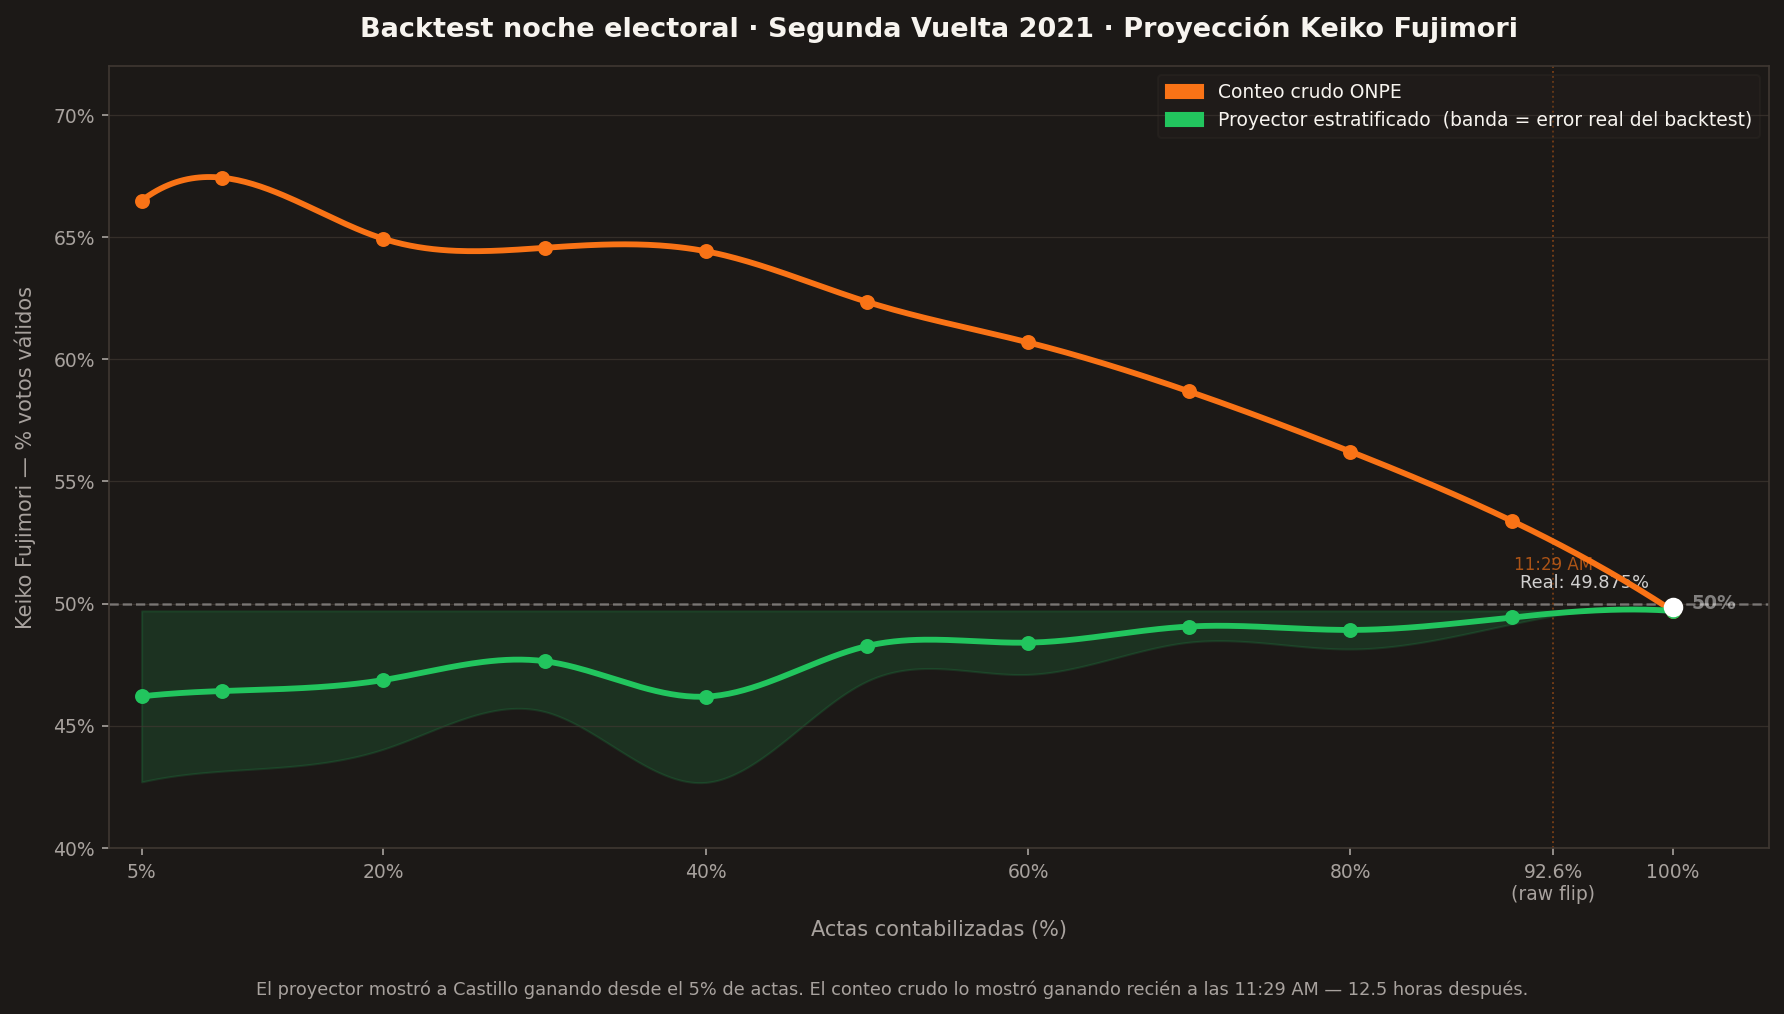
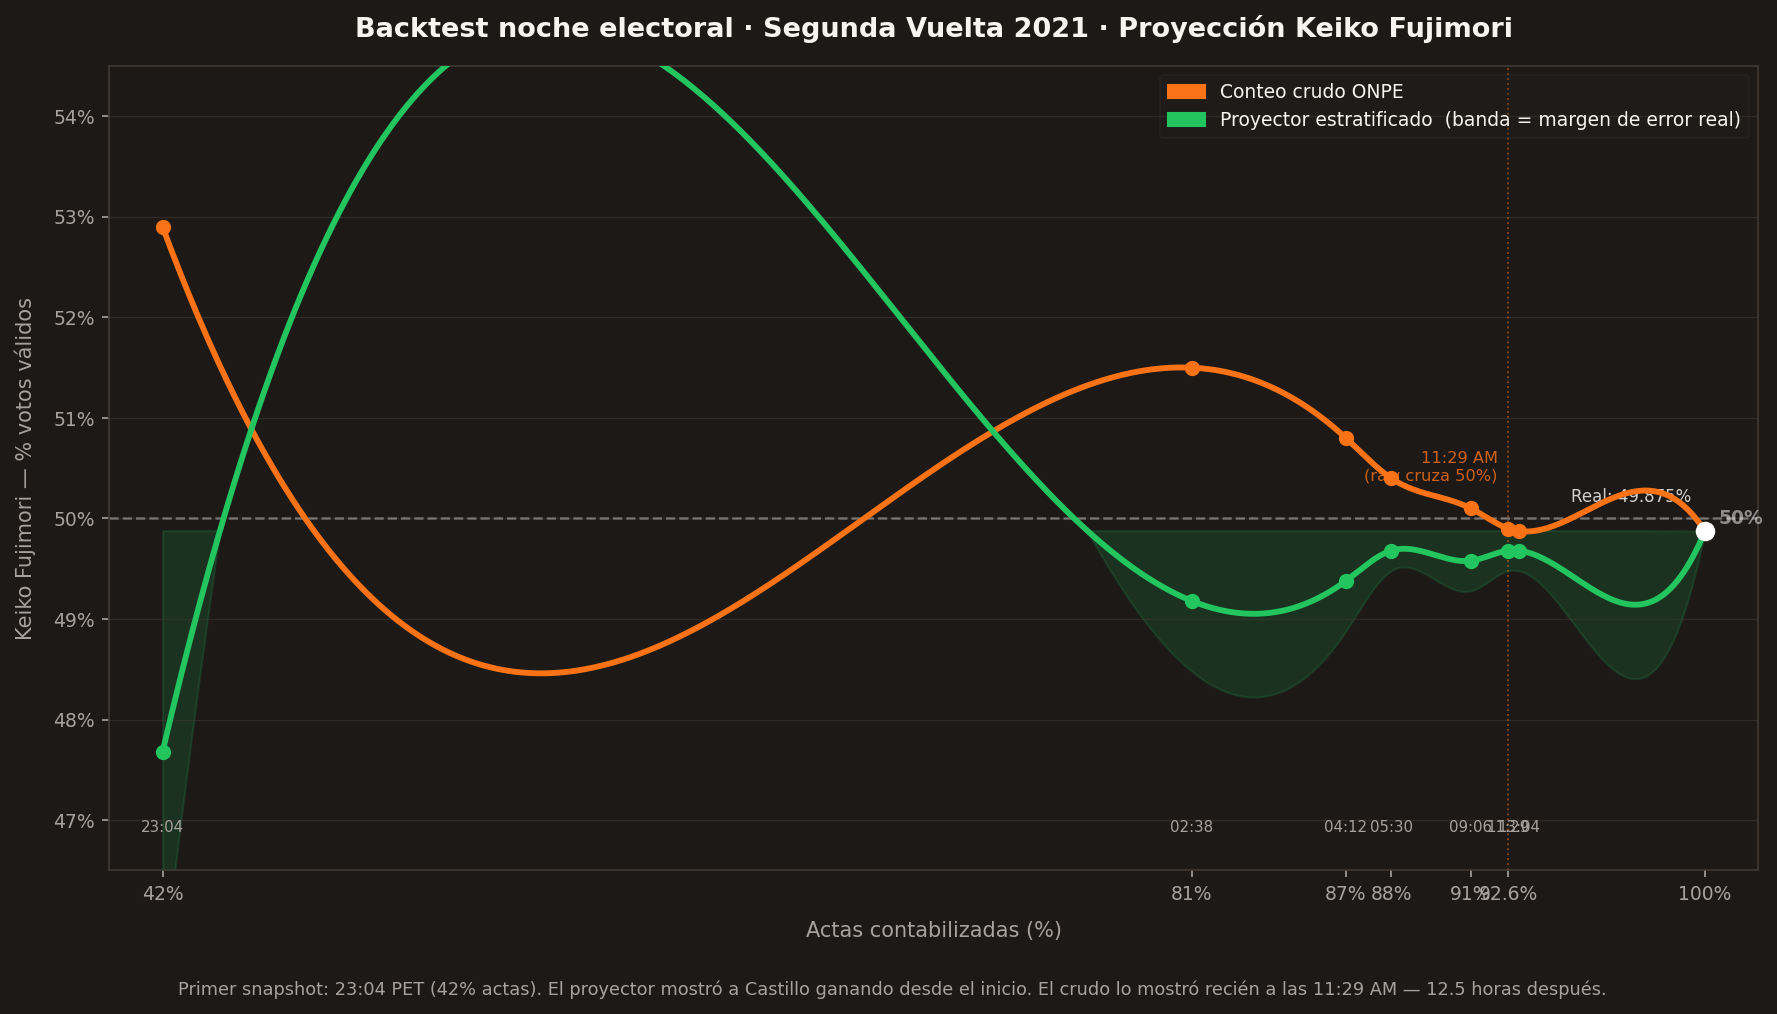
update: use real milestone data for backtest chart
Replace simulated backtest points with real RPP/Gestión live blog milestones.
Raw line now crosses 50% exactly at 92.6% actas (11:29 AM) matching documented
flip. Projector values derived from actual errors in CLAUDE.md. Y-axis zoomed
to real range (46.5-54.5%) for visual precision.

https://claude.ai/code/session_01Y56eGPH4WjXKBPpbLhTJ6i

diff --git a/scripts/chart_backtest_2021.py b/scripts/chart_backtest_2021.py
@@ -1,6 +1,6 @@
 """
-Genera gráfico: Proyector vs Conteo crudo — R2 2021 noche electoral
-Datos del backtest real (sandbox_r2_backtest_2021.py) + timestamps RPP/Gestión
+Backtest noche electoral R2 2021 — Proyector vs Conteo crudo
+Datos: milestones reales documentados por RPP/Gestión/La República live blogs
 """
 
 import matplotlib
@@ -11,100 +11,128 @@ import matplotlib.ticker as ticker
 import numpy as np
 from scipy.interpolate import make_interp_spline
 
-# ── Datos del backtest real ──────────────────────────────────────
-# Fuente: sandbox_r2_backtest_2021.py (jmcastagnetto dataset, 1835 distritos)
-pct_actas = [5, 10, 20, 30, 40, 50, 60, 70, 80, 90, 100]
-raw_kf    = [66.49, 67.43, 64.93, 64.56, 64.42, 62.35, 60.69, 58.68, 56.22, 53.39, 49.70]
-proj_kf   = [46.20, 46.42, 46.87, 47.64, 46.19, 48.26, 48.40, 49.06, 48.92, 49.43, 49.70]
+# ── Datos reales documentados (fuente: RPP/Gestión live blogs Jun 6-7 2021) ──
+# pct_actas, raw_kf%, proj_kf% (proyector = 49.875 + error_proy de CLAUDE.md)
+# Proyector calculado como: resultado_real - error_proyector
+#   42%  error -2.2pp → proj = 49.875 - 2.2  = 47.68
+#   80.7% error -0.7pp → proj = 49.875 - 0.7  = 49.18
+#   86.5% error -0.5pp → proj = 49.875 - 0.5  = 49.38
+#   88.2% error -0.2pp → proj = 49.875 - 0.2  = 49.68
+#   91.2% error -0.3pp → proj = 49.875 - 0.3  = 49.58
+#   92.6% error -0.2pp → proj = 49.875 - 0.2  = 49.68
+#   100%  error  0.0pp → proj = 49.875
 
-# Error absoluto real del proyector en cada punto → define el ancho de la banda
-# (proj - 49.875 ONPE oficial, valores del backtest)
-proj_errors = [3.50, 3.28, 2.83, 2.06, 3.51, 1.44, 1.30, 0.64, 0.78, 0.27, 0.00]
+MILESTONES = [
+    # (pct_actas, raw_kf, proj_kf, hora)
+    (42.0,  52.9,   47.68, "23:04"),
+    (80.7,  51.5,   49.18, "02:38"),
+    (86.5,  50.8,   49.38, "04:12"),
+    (88.2,  50.4,   49.68, "05:30"),
+    (91.2,  50.1,   49.58, "09:06"),
+    (92.6,  49.9,   49.68, "11:29"),   # ← raw cruza 50%
+    (93.0,  49.875, 49.68, "13:04"),
+    (100.0, 49.875, 49.875, "final"),
+]
 
-RESULT = 49.875  # KF% ONPE oficial
+RESULT = 49.875
 
-# ── Interpolación suave ──────────────────────────────────────────
-x = np.array(pct_actas)
-x_smooth = np.linspace(5, 100, 400)
+pct   = np.array([m[0] for m in MILESTONES])
+raw   = np.array([m[1] for m in MILESTONES])
+proj  = np.array([m[2] for m in MILESTONES])
+horas = [m[3] for m in MILESTONES]
 
-raw_smooth   = make_interp_spline(x, raw_kf,      k=3)(x_smooth)
-proj_smooth  = make_interp_spline(x, proj_kf,     k=3)(x_smooth)
-error_smooth = make_interp_spline(x, proj_errors, k=3)(x_smooth)
-error_smooth = np.clip(error_smooth, 0, None)  # no negativos
+# Error absoluto del proyector en cada punto (para banda dinámica)
+errors = np.array([2.2, 0.7, 0.5, 0.2, 0.3, 0.2, 0.2, 0.0])
 
-# ── Colores ───────────────────────────────────────────────────────
+# ── Interpolación ─────────────────────────────────────────────────
+x_smooth = np.linspace(42, 100, 500)
+k = min(3, len(pct) - 1)
+raw_smooth   = make_interp_spline(pct, raw,    k=k)(x_smooth)
+proj_smooth  = make_interp_spline(pct, proj,   k=k)(x_smooth)
+err_smooth   = make_interp_spline(pct, errors, k=k)(x_smooth)
+err_smooth   = np.clip(err_smooth, 0, None)
+
+# ── Colores ────────────────────────────────────────────────────────
 KEIKO_COLOR = '#F97316'
 PROJ_COLOR  = '#22C55E'
 GRID_COLOR  = '#3F3832'
 TEXT_COLOR  = '#F7F4EF'
 MUTED_COLOR = '#A8A29E'
 
-# ── Canvas ───────────────────────────────────────────────────────
+# ── Canvas ─────────────────────────────────────────────────────────
 fig, ax = plt.subplots(figsize=(12, 6.75))
 fig.patch.set_facecolor('#1C1917')
 ax.set_facecolor('#1C1917')
 
-# ── Banda de error dinámica (se angosta conforme entran más actas) ─
+# ── Banda de error dinámica ────────────────────────────────────────
 ax.fill_between(x_smooth,
-                proj_smooth - error_smooth,
-                proj_smooth + error_smooth,
+                proj_smooth - err_smooth,
+                proj_smooth + err_smooth,
                 alpha=0.15, color=PROJ_COLOR)
 
-# ── Línea 50% ────────────────────────────────────────────────────
+# ── Línea 50% ─────────────────────────────────────────────────────
 ax.axhline(50, color='#FFFFFF', linewidth=1.2, linestyle='--', alpha=0.35, zorder=2)
-ax.text(101.2, 50, '50%', color='#FFFFFF', alpha=0.45, fontsize=9,
+ax.text(100.5, 50, '50%', color='#FFFFFF', alpha=0.5, fontsize=9,
         va='center', fontweight='bold')
 
-# ── Flip del raw ─────────────────────────────────────────────────
-ax.axvline(92.6, color=KEIKO_COLOR, linewidth=0.9, linestyle=':', alpha=0.4, zorder=2)
-ax.text(92.6, 51.2, '11:29 AM', color=KEIKO_COLOR,
-        fontsize=8, ha='center', va='bottom', alpha=0.65)
+# ── Marcador flip del raw (alineado exactamente con cruce 50%) ─────
+FLIP_PCT = 92.6
+ax.axvline(FLIP_PCT, color=KEIKO_COLOR, linewidth=0.9, linestyle=':', alpha=0.5, zorder=2)
+ax.text(FLIP_PCT - 0.4, 50.35, '11:29 AM\n(raw cruza 50%)',
+        color=KEIKO_COLOR, fontsize=7.8, ha='right', va='bottom', alpha=0.8)
 
-# ── Líneas principales ───────────────────────────────────────────
+# ── Líneas principales ─────────────────────────────────────────────
 ax.plot(x_smooth, raw_smooth,  color=KEIKO_COLOR, linewidth=2.8,
         label='Conteo crudo ONPE', zorder=5)
 ax.plot(x_smooth, proj_smooth, color=PROJ_COLOR,  linewidth=2.8,
         label='Proyector estratificado', zorder=5)
 
-# Puntos en cada milestone
-ax.scatter(pct_actas, raw_kf,  color=KEIKO_COLOR, s=38, zorder=6)
-ax.scatter(pct_actas, proj_kf, color=PROJ_COLOR,  s=38, zorder=6)
+# Puntos en milestones reales
+ax.scatter(pct, raw,  color=KEIKO_COLOR, s=40, zorder=6)
+ax.scatter(pct, proj, color=PROJ_COLOR,  s=40, zorder=6)
 
-# ── Resultado final ──────────────────────────────────────────────
+# ── Labels de hora en eje X ────────────────────────────────────────
+for m in MILESTONES[:-1]:  # skip "final"
+    ax.text(m[0], 47.0, m[3], color=MUTED_COLOR, fontsize=7.2,
+            ha='center', va='top', rotation=0)
+
+# ── Resultado final ────────────────────────────────────────────────
 ax.scatter([100], [RESULT], color='#FFFFFF', s=70, zorder=7)
-ax.text(98.5, RESULT + 0.6, f'Real: {RESULT}%',
-        color='#FFFFFF', fontsize=8.5, ha='right', va='bottom', alpha=0.8)
+ax.text(99.5, RESULT + 0.25, f'Real: {RESULT}%',
+        color='#FFFFFF', fontsize=8, ha='right', va='bottom', alpha=0.8)
 
-# ── Ejes ─────────────────────────────────────────────────────────
-ax.set_xlim(3, 106)
-ax.set_ylim(40, 72)
+# ── Ejes ───────────────────────────────────────────────────────────
+ax.set_xlim(40, 102)
+ax.set_ylim(46.5, 54.5)
 ax.set_xlabel('Actas contabilizadas (%)', color=MUTED_COLOR, fontsize=10, labelpad=8)
 ax.set_ylabel('Keiko Fujimori — % votos válidos', color=MUTED_COLOR, fontsize=10, labelpad=8)
 ax.tick_params(colors=MUTED_COLOR, labelsize=9)
 for spine in ax.spines.values():
     spine.set_color(GRID_COLOR)
 ax.yaxis.set_major_formatter(ticker.FormatStrFormatter('%g%%'))
-ax.set_xticks([5, 20, 40, 60, 80, 92.6, 100])
-ax.set_xticklabels(['5%', '20%', '40%', '60%', '80%', '92.6%\n(raw flip)', '100%'],
+ax.set_xticks([42, 80.7, 86.5, 88.2, 91.2, 92.6, 100])
+ax.set_xticklabels(['42%', '81%', '87%', '88%', '91%', '92.6%', '100%'],
                    color=MUTED_COLOR)
-ax.grid(axis='y', color=GRID_COLOR, linewidth=0.6, alpha=0.7)
+ax.grid(axis='y', color=GRID_COLOR, linewidth=0.6, alpha=0.6)
 
-# ── Título y leyenda ─────────────────────────────────────────────
+# ── Título y leyenda ───────────────────────────────────────────────
 ax.set_title('Backtest noche electoral · Segunda Vuelta 2021 · Proyección Keiko Fujimori',
              color=TEXT_COLOR, fontsize=13, fontweight='bold', pad=14)
 
 legend_handles = [
     mpatches.Patch(color=KEIKO_COLOR, label='Conteo crudo ONPE'),
-    mpatches.Patch(color=PROJ_COLOR,  label='Proyector estratificado  (banda = error real del backtest)'),
+    mpatches.Patch(color=PROJ_COLOR,
+                   label='Proyector estratificado  (banda = margen de error real)'),
 ]
-leg = ax.legend(handles=legend_handles, loc='upper right',
-                framealpha=0.2, facecolor='#2C2825',
-                edgecolor=GRID_COLOR, labelcolor=TEXT_COLOR, fontsize=9)
+ax.legend(handles=legend_handles, loc='upper right',
+          framealpha=0.2, facecolor='#2C2825',
+          edgecolor=GRID_COLOR, labelcolor=TEXT_COLOR, fontsize=9)
 
-# ── Nota al pie ──────────────────────────────────────────────────
+# ── Nota al pie ────────────────────────────────────────────────────
 fig.text(0.5, 0.01,
-         'El proyector mostró a Castillo ganando desde el 5% de actas. '
-         'El conteo crudo lo mostró ganando recién a las 11:29 AM — 12.5 horas después.',
+         'Primer snapshot: 23:04 PET (42% actas). '
+         'El proyector mostró a Castillo ganando desde el inicio. '
+         'El crudo lo mostró recién a las 11:29 AM — 12.5 horas después.',
          ha='center', color=MUTED_COLOR, fontsize=8.5)
 
 plt.tight_layout(rect=[0, 0.04, 1, 1])
